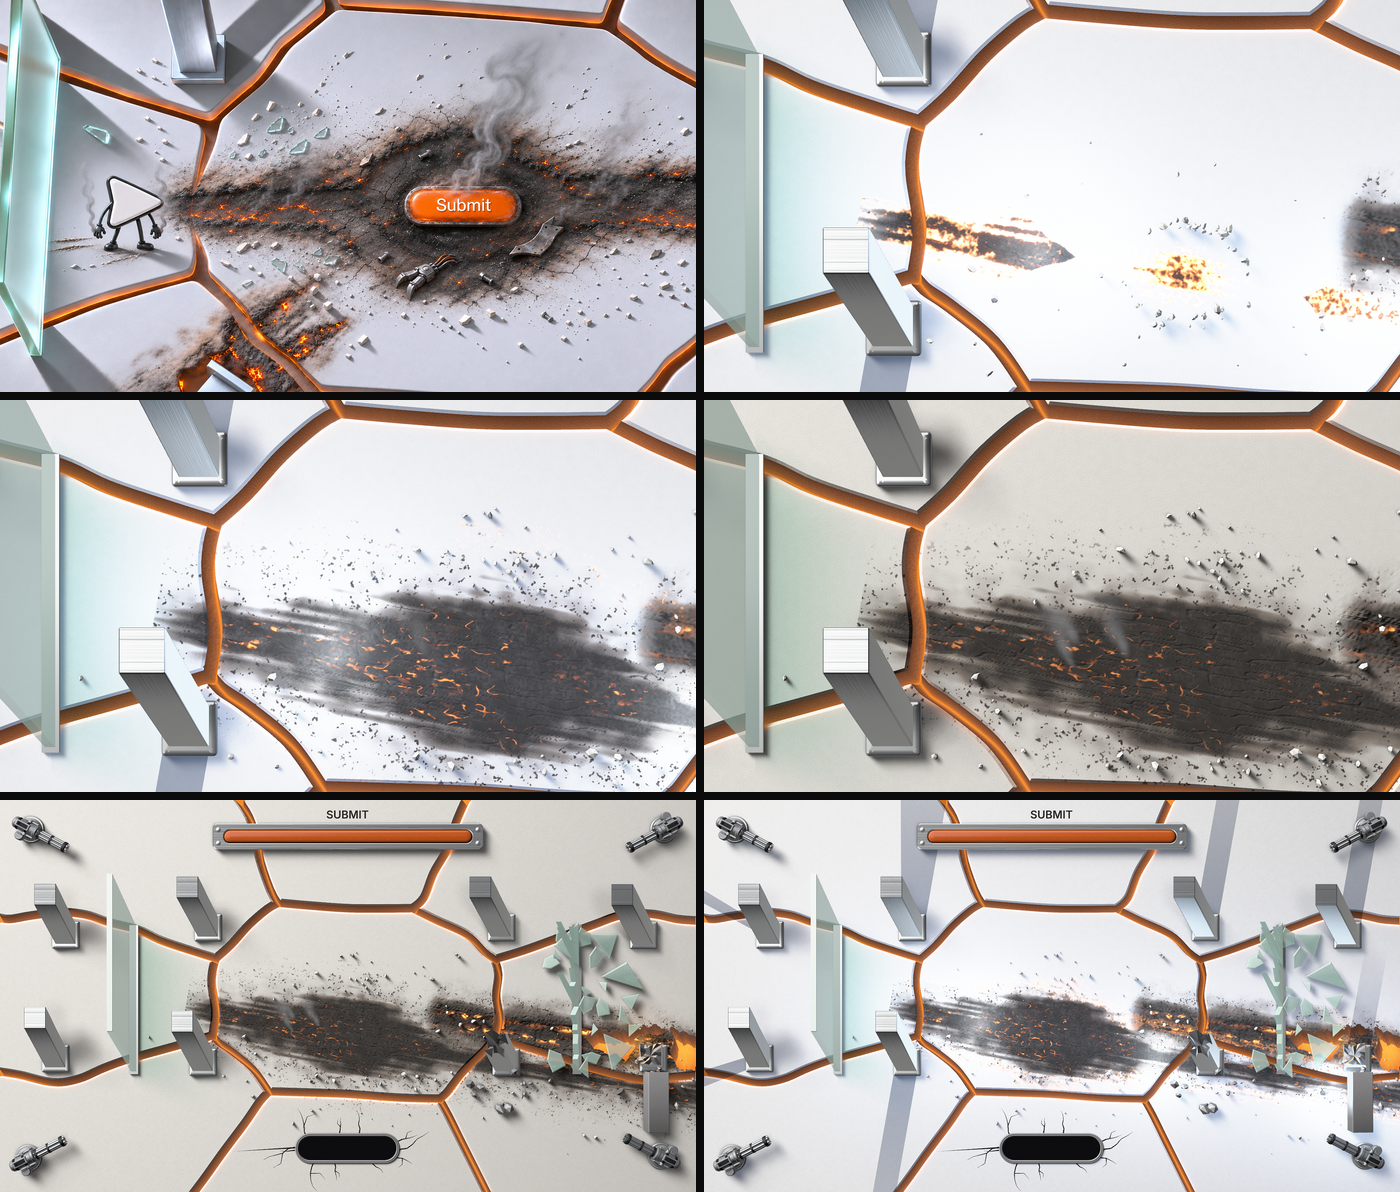
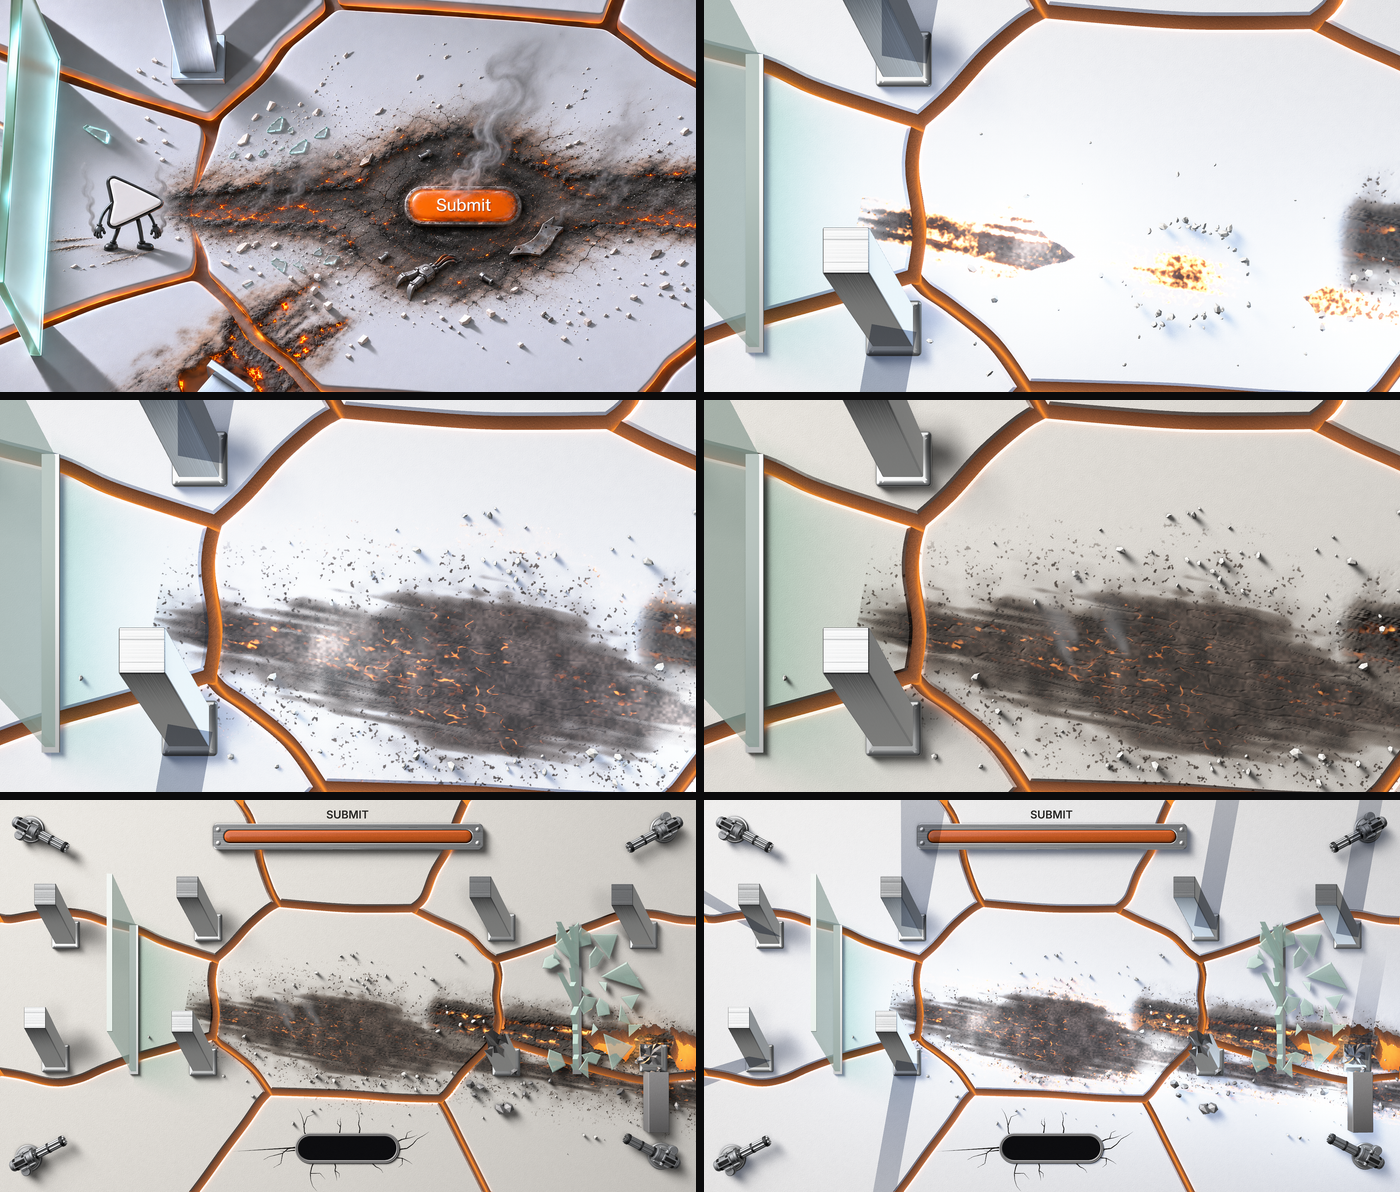
arena: the beam's drawn shadows no longer dim the light of a seam or a hole; the finish views measured at the low level; notes on the finishing blast and the beam's hook

diff --git a/src/arena/finish.ts b/src/arena/finish.ts
@@ -77,13 +77,14 @@ export function makeFinish(seed: number, kit: Kit, wounds: Wounds): Finish {
   shadowTint.setUsage(THREE.DynamicDrawUsage)
   shadowGeo.setAttribute('position', shadowAt)
   shadowGeo.setAttribute('color', shadowTint)
-  const shadowStuff = new THREE.MeshBasicMaterial({ vertexColors: true, transparent: true, blending: THREE.CustomBlending, blendSrc: THREE.DstColorFactor, blendDst: THREE.ZeroFactor, depthWrite: false, toneMapped: false, side: THREE.DoubleSide })
+  const shadowStuff = new THREE.MeshBasicMaterial({ vertexColors: true, transparent: true, blending: THREE.CustomBlending, blendSrc: THREE.DstColorFactor, blendDst: THREE.ZeroFactor, depthWrite: false, depthFunc: THREE.GreaterDepth, toneMapped: false, side: THREE.DoubleSide })
   const shadows = new THREE.Mesh(shadowGeo, shadowStuff)
   shadows.name = 'arena-beam-shadows'
   shadows.frustumCulled = false
   shadows.visible = false
   shadows.renderOrder = 3
-  shadows.position.z = 0.7
+  // It lies a hair under the top of the slabs and is drawn only where something lies over it: on the ceramic and on what stands on it, never down in a seam or a hole, whose light a shadow cannot dim.
+  shadows.position.z = -1.4
   root.add(shadows)
 
   let job: { key: string; s: Scorch; next: number; j1: number; done: boolean } | null = null

diff --git a/pipeline/change002/arena.md b/pipeline/change002/arena.md
@@ -12,17 +12,19 @@ A module in `src/arena/` that draws the arena from the state in `src/boss/view.t
 | `change.ts` | The scene change as functions of `view.time`: cracks, split, light, rise, bar drop, and the shake | no |
 | `solids.ts` | `solids(view)`, of type `SolidsOf`: what stands and stops a shot, and the one rule of a blast | no |
 | `breaks.ts` | What a blast leaves on the ground, as a picture of numbers (soot, cut, embers, hole) | no |
+| `scorch.ts` | What the finishing blast leaves: its line, its share, the scorch as a picture of numbers, the chips, the cold beam's light and the shadows it throws | no |
 | `ground.ts` | Slabs, seams with their light and its spill, the bed below, the socket, cracks, and the ceramic that reads the wounds | yes |
 | `props.ts` | Pillars, panes with their green shade, corner guns, the health bar in its bolted frame | yes |
-| `wreck.ts` | Stumps, toppled columns, rubble, glass teeth and shards, sparks, flash, smoke, the warning band, the dust of the split, the glint of a stopped shot | yes |
+| `wreck.ts` | Stumps, toppled columns, rubble, glass teeth and shards, sparks, flash, smoke, the warning light, the dust of the split, the glint of a stopped shot | yes |
+| `finish.ts` | The finishing blast on the arena: the scorch burnt in, chips, wisps of smoke, the drawn shadows of a cold beam | yes |
 | `index.ts` | `makeArena`, `arenaPart`, `arenaWell`, and the exports the fight reads | yes |
 | `harness/` | The arena alone on the site's real `App`, for `tools/arena-shots.mjs` | yes |
 
-STATED: there is no `Math.random` and no wall clock in the module; `pose` does not read `dt`. MEASURED: `tests/arena-layout.test.ts` reads every file of `src/arena/` for both and passes, and checks that the four files of numbers do not import three.js.
+STATED: there is no `Math.random` and no wall clock in the module; `pose` does not read `dt`. MEASURED: `tests/arena-layout.test.ts` reads every file of `src/arena/` for both and passes, and checks that the files of numbers do not import three.js.
 
 ## How it plugs in
 
-STATED, as agreed with the fight helper and wired by them behind `LOOK1_ON` (agent/b-boss, f5b68d24):
+STATED, as agreed with the fight helper and wired by them behind `LOOK1_ON` (agent/b-boss, f5b68d24; MEASURED on the real page with the switch on, see below):
 
 - The page pushes one shape of kind `anchor` over the whole page (0, 0, 1920, 1080, z0 0) with the part `boss-arena` = `arenaPart(viewOf)`. `viewOf()` gives the view or null.
 - From `ARENA.clearAt` the page also pushes one shape of kind `well` over the whole page, `arenaWell(view)` gives its numbers (z0 -60). That is how the page's own ground is kept from showing through or fighting with mine: the site's ground cuts itself out under a well, so from 0.70 s there is no page ground left under the slabs, and I draw the ceramic top myself with the site's own ceramic material. No shared file was touched and no NEEDS commit was made.
@@ -30,7 +32,10 @@ STATED, as agreed with the fight helper and wired by them behind `LOOK1_ON` (age
 - The health bar is mine: frame, bolts, track and fill from `view.boss.health`. The label is a `text` shape of the page with `copy:step4.bossHealthLabel` at `ARENA.label` (x 960, y 40, 30 px, inter-600), shown from `ARENA.barLands`. No new words.
 - The fight takes its walls from `STANDS` / `solids(view)`.
 
-Exports of `src/arena` (index.ts): `makeArena`, `arenaPart`, `arenaWell`, `ARENA`, `MIDDLE`, `PANES`, `PILLARS`, `SEAMS`, `SLABS`, `solids`, `standing`, `brokenBy`, `breaksBox`, `shake`, `KNOCKS`, `BLAST_KNOCK`.
+- The ceramic runs on 72 px past the edge of the page on every side (off screen at rest). The fight shakes the arena as a wrapper round my part; without the apron the edge of the page came into the picture (MEASURED on the real page at 6.9 s and 43.2 s, mended and seen again).
+- `arenaPart(viewOf, { beam })` and `makeArena({ seed, beam })` take an optional driver for the light of a cold beam, see "The finishing blast".
+
+Exports of `src/arena` (index.ts): `makeArena`, `arenaPart`, `arenaWell`, `ARENA`, `MIDDLE`, `PANES`, `PILLARS`, `SEAMS`, `SLABS`, `solids`, `standing`, `brokenBy`, `breaksBox`, `shake`, `KNOCKS`, `BLAST_KNOCK`, `SCORCH`, `scorchFrom`, `scorchOf`, `beamOf`, and the types `BlastLine`, `BeamLight`, `BeamDriver`.
 
 The page must be clear of its content by **0.70 s** of `view.time` (`ARENA.clearAt`). STATED by the fight helper: the content is off screen by 0.60 s.
 
@@ -41,7 +46,7 @@ All on `view.time`, 0 = the Submit button breaks out. Length 2.4 s (`ARENA.chang
 | Time (s) | Frame | What happens | Event | Sound length |
 | --- | --- | --- | --- | --- |
 | 0.00 | 0 | Cracks start at the socket and run outward along the seams to be, done by 0.62 | `page-crack` (the fight's `button-crack`) | 0.9 s |
-| 0.70 | 42 | The page splits: seams jump open in 0.45 s, a little past and back; light surges up through them; dust rises along them for 1.5 s; the well cuts the page's ground | `arena-split` | 1.2 s |
+| 0.70 | 42 | The page splits: seams jump open in 0.45 s, a little past and back; light surges up through them; pale dust rises along them (96 puffs, up within 6 frames, gone by 2.6 s); the well cuts the page's ground | `arena-split` | 1.2 s |
 | 1.00 | 60 | Pillars start to rise, inner four first | `arena-rise` | 1.0 s |
 | 1.42 to 1.61 | 85 to 97 | The eight pillars lock, one after another | (inside `arena-rise`) | |
 | 1.66 to 1.70 | 100 to 102 | The two panes lock | (inside `arena-rise`) | |
@@ -50,7 +55,7 @@ All on `view.time`, 0 = the Submit button breaks out. Length 2.4 s (`ARENA.chang
 | 2.12 | 127 | The bar lands, one small bounce | (the hit of `healthbar-drop`) | |
 | 2.40 | 144 | The change is over; from here `solids(view)` lists what stands | | |
 
-STATED: the fight helper emits `arena-split`, `arena-rise` and `healthbar-drop` at `ARENA.splitAt`, `ARENA.riseAt`, `ARENA.barAt`.
+STATED by the fight helper (00:16Z): it emits `arena-split` at 0.70, `arena-rise` at 1.00 and `healthbar-drop` at 1.70, the start of the fall. What each event shows and how its sound should sit is in `pipeline/change002/arena-sounds.md`.
 
 ### The shake, for the camera owner
 
@@ -66,26 +71,44 @@ STATED: the fight helper emits `arena-split`, `arena-rise` and `healthbar-drop` 
 | 2.12 | 7 | 0.002 | 24 | 0.15 | the health bar lands |
 | each blast | 26 | 0.008 | 15 | 0.40 | the big cannon fires |
 
-UNKNOWN: who applies it. Asked of the fight helper at 23:38Z.
+STATED by the fight helper (00:16Z): it applies the shake as a wrapper group round my part and the boss's (x, minus y, roll from `shake(view.time, view.breaks.map((k) => k.at))`). The arrow, the caption and the bar's words do not move.
 
 ## What the big cannon breaks
 
 For every entry of `view.breaks` with `at <= view.time`:
 
 - A trench along the line from (x0, y0): soot with a soft edge and thrown specks, a cut that the site's light shades (the ceramic's normal is bent by the depth), fissures, two rows of embers that flicker and are hotter for half a second after the blast.
-- At the far end of the line the slab is broken through: a ragged hole, 290 to 420 px long and never more than 45% of the line, lit from below, with the broken wall of the slab under its upper edge. Where the line crosses a seam the slab edge crumbles the same way.
+- At the far end of the line the slab is broken through: a ragged hole, 290 to 420 px long and never more than 45% of the line. It has depth: under its upper edge the broken side wall of the slab shows, dark, and the light comes up from below, deep orange at the rim and brightest in the middle (how far a texel lies inside the hole is probed in 24 directions). Where the line crosses a seam the slab edge crumbles the same way.
 - The hole never opens under the foot of a pillar, a pane, a corner gun, the health bar or the socket (MEASURED by test), so it is split round them.
-- Each pillar the line breaks: a stump 84 to 140 px high with a rough top and eleven lumps of rubble thrown away from the line; 36% of them topple instead, to a stump 22 to 36 px high and the column lying beside it.
-- Each pane the line breaks: jagged teeth in its shoe, short where the line went through and taller toward its ends, and 22 shards on the ground, most thrown the way the blast went.
+- Each pillar the line breaks: a stump 84 to 140 px high with a rough broken top (a lump, not a flat cap) and eleven lumps of rubble thrown away from the line; 36% of them topple instead, to a stump 22 to 36 px high and the column lying beside it. The column in flight and at rest is lit by the site's light like the standing ones (MEASURED on the real page at 43.2, 43.5 and 44.5 s: grey in all three, where it was black then white before).
+- Each pane the line breaks: low jagged teeth in its shoe, lowest where the line went through, never taller than 24% of the pane, and at most three thin splinters left standing; shards of several shapes on the ground, most thrown the way the blast went. Nothing of it stops a shot.
 - For 0.24 s a flash along the line and a burst at its far end; sparks for 0.7 s; smoke for 1.7 s; two lights of the site's pool for 0.5 s.
-- While `boss.big` is set and not yet fired: a warning band on the ground along the line, as wide as the blast, two bright edges and a faint fill, brighter and quicker as `tell` rises. The look helper draws the thin line at muzzle height; the ground band is mine.
+- While `boss.big` is set and not yet fired: the warning is light on the ground along the line. It is as wide as the blast at first, narrows and brightens as `tell` rises, and lights the pillars and the pane that stand in it. The look helper draws the thin line at muzzle height; the light on the ground is mine. STATED by the fight helper: the line lies still for the whole tell, 1.6 s.
 - A hit of kind `solid`: a glint at its place for 0.18 s.
 
 The wounds are not a picture laid over the ground. They are four numbers a texel (1440 by 810 over the page) that the ceramic's own shader reads: it darkens, roughens, bends the normal, lights the embers and the hole. The same trench is therefore lit and shadowed by the site's light like the rest of the ground.
 
 Events, as the fight helper emits them: `cannon-warn` (their `big-tell`, 0.8 s), `arena-break` once per blast (1.3 s, the slab breaking is folded into it), `pane-shatter` (1.4 s) and `pillar-break` (1.1 s) once per thing.
 
-Room left for the finishing beam (STATED by the Builder at 22:52Z, not designed): nothing of mine stands on the middle slab, a hole never opens in it for a line that starts at the boss (MEASURED by test on the fight's rectangle for one line; STATED in general, since a hole is at most 420 px from the screen edge it runs to), and the wounds picture can take a mark that is soot and cut only. A trench may cross the middle slab from 275 px ahead of the boss's centre outward, as the lines do.
+## The finishing blast
+
+Asked by the Builder at 00:03Z, after `references/approved-002/finish-button-left.png`, `finish-charge.png` and `finish-blast.png`. It differs from the big cannon's blast: it breaks no slab through to the light, it scorches. The slab under the button stays whole.
+
+As a function, like the blasts (`scorch.ts`, no three.js):
+
+- `scorchFrom(line)`: a start place and a direction. `line` is `{ x0, y0, x1, y1 }` in page px: the arrow's centre at firing and the place where the boss lay. The trench starts 70 px ahead of the arrow (`SCORCH.ahead`), is 36 px to each side (`SCORCH.half`), runs through the boss's place and on past the edge of the page; round the boss's place it widens into a burn of 108 px, drawn out 2.1 times along the beam (`SCORCH.burn`, `SCORCH.long`).
+- `scorchOf(view)`: the line and a share from 0 to 1 while the beam burns. The line is `view.scorch` (STATED by the fight helper at 00:16Z: set in the frame of `finish-fire` and kept to the end), else `view.finish`. The share is `view.boss.gone`, else the blast's clock over 2.13 s.
+- `paintScorch(...)`: the scorch as four numbers a texel (soot, depth, embers, and when it burns), 1920 by 1080 over the page. `shownAt(when, share)` says how much of a texel shows at a share: the front runs out along the line first, then the black spreads from the middle to the rim, with a glowing edge while it spreads.
+- The settled state is the same picture at share 1: warm mottled black with veins and two loose rows of small embers that keep a low flicker, a soft rim drawn out into streaks along the beam, specks thrown wide, 120 chips of ceramic thrown out to both sides (fewer at the low level, never a different layout), wisps of smoke (4 columns of 6 puffs).
+
+The ceramic's shader reads this picture beside the wounds of the cannon, so the scorch is lit and shadowed like the rest of the ground and costs no draw call of its own. It is painted ahead over 48 frames while the arrow's aim lies still (`aimOf(view)`), and at once if the blast arrives without that (about 0.1 s here). MEASURED: `tests/arena-scorch.test.ts`, 7 tests pass: the line starts in front of the arrow, runs through the fallen boss and leaves the page; the same line and seed give the same picture, and slices equal the whole; it is a trench that widens into a round burn where the boss lay, with nothing behind the arrow; it burns in from the arrow outward and from the middle to the rim; the line and the share are read from the view; the chips land clear of the black, the seams, the feet and the socket, the same every run; the beam stands as long as the blast and the shadows fall away from it.
+
+The answer to the cold beam, for the helper who owns the arrow and the beam (agent/b-finish):
+
+- `BeamLight = { x0, y0, x1, y1, strength }`, page px, strength 0 to 1. `BeamDriver = (view) => BeamLight | null`, given as `arenaPart(viewOf, { beam })`.
+- While it burns: a cold wash on the ceramic that falls off with the distance from the line, and one drawn mesh (`arena-beam-shadows`) in which every pillar and pane that stands throws a long sharp shadow away from the line (a pane's paler and green). The shadows are drawn on the ceramic and on what stands on it, never down in a seam or a hole.
+- With a driver given, the arena adds no lights of its own; the beam's owner lights pillars, glass and ground through the site's pool. Without one, the arena uses `beamOf(view)` (from `view.finish`: up in 0.05 s, down over the last fifth of the blast) and adds three cold lights so it reads alone.
+- STATED by the finish helper (00:40Z): its drawn shadows go, mine stay; its three cold lights ask for no shadow; it exports `beamLight(state)` in exactly this shape for the fight helper to pass. UNKNOWN: how the two look together, since agent/b-finish is not merged into this branch.
 
 ## Solids
 
